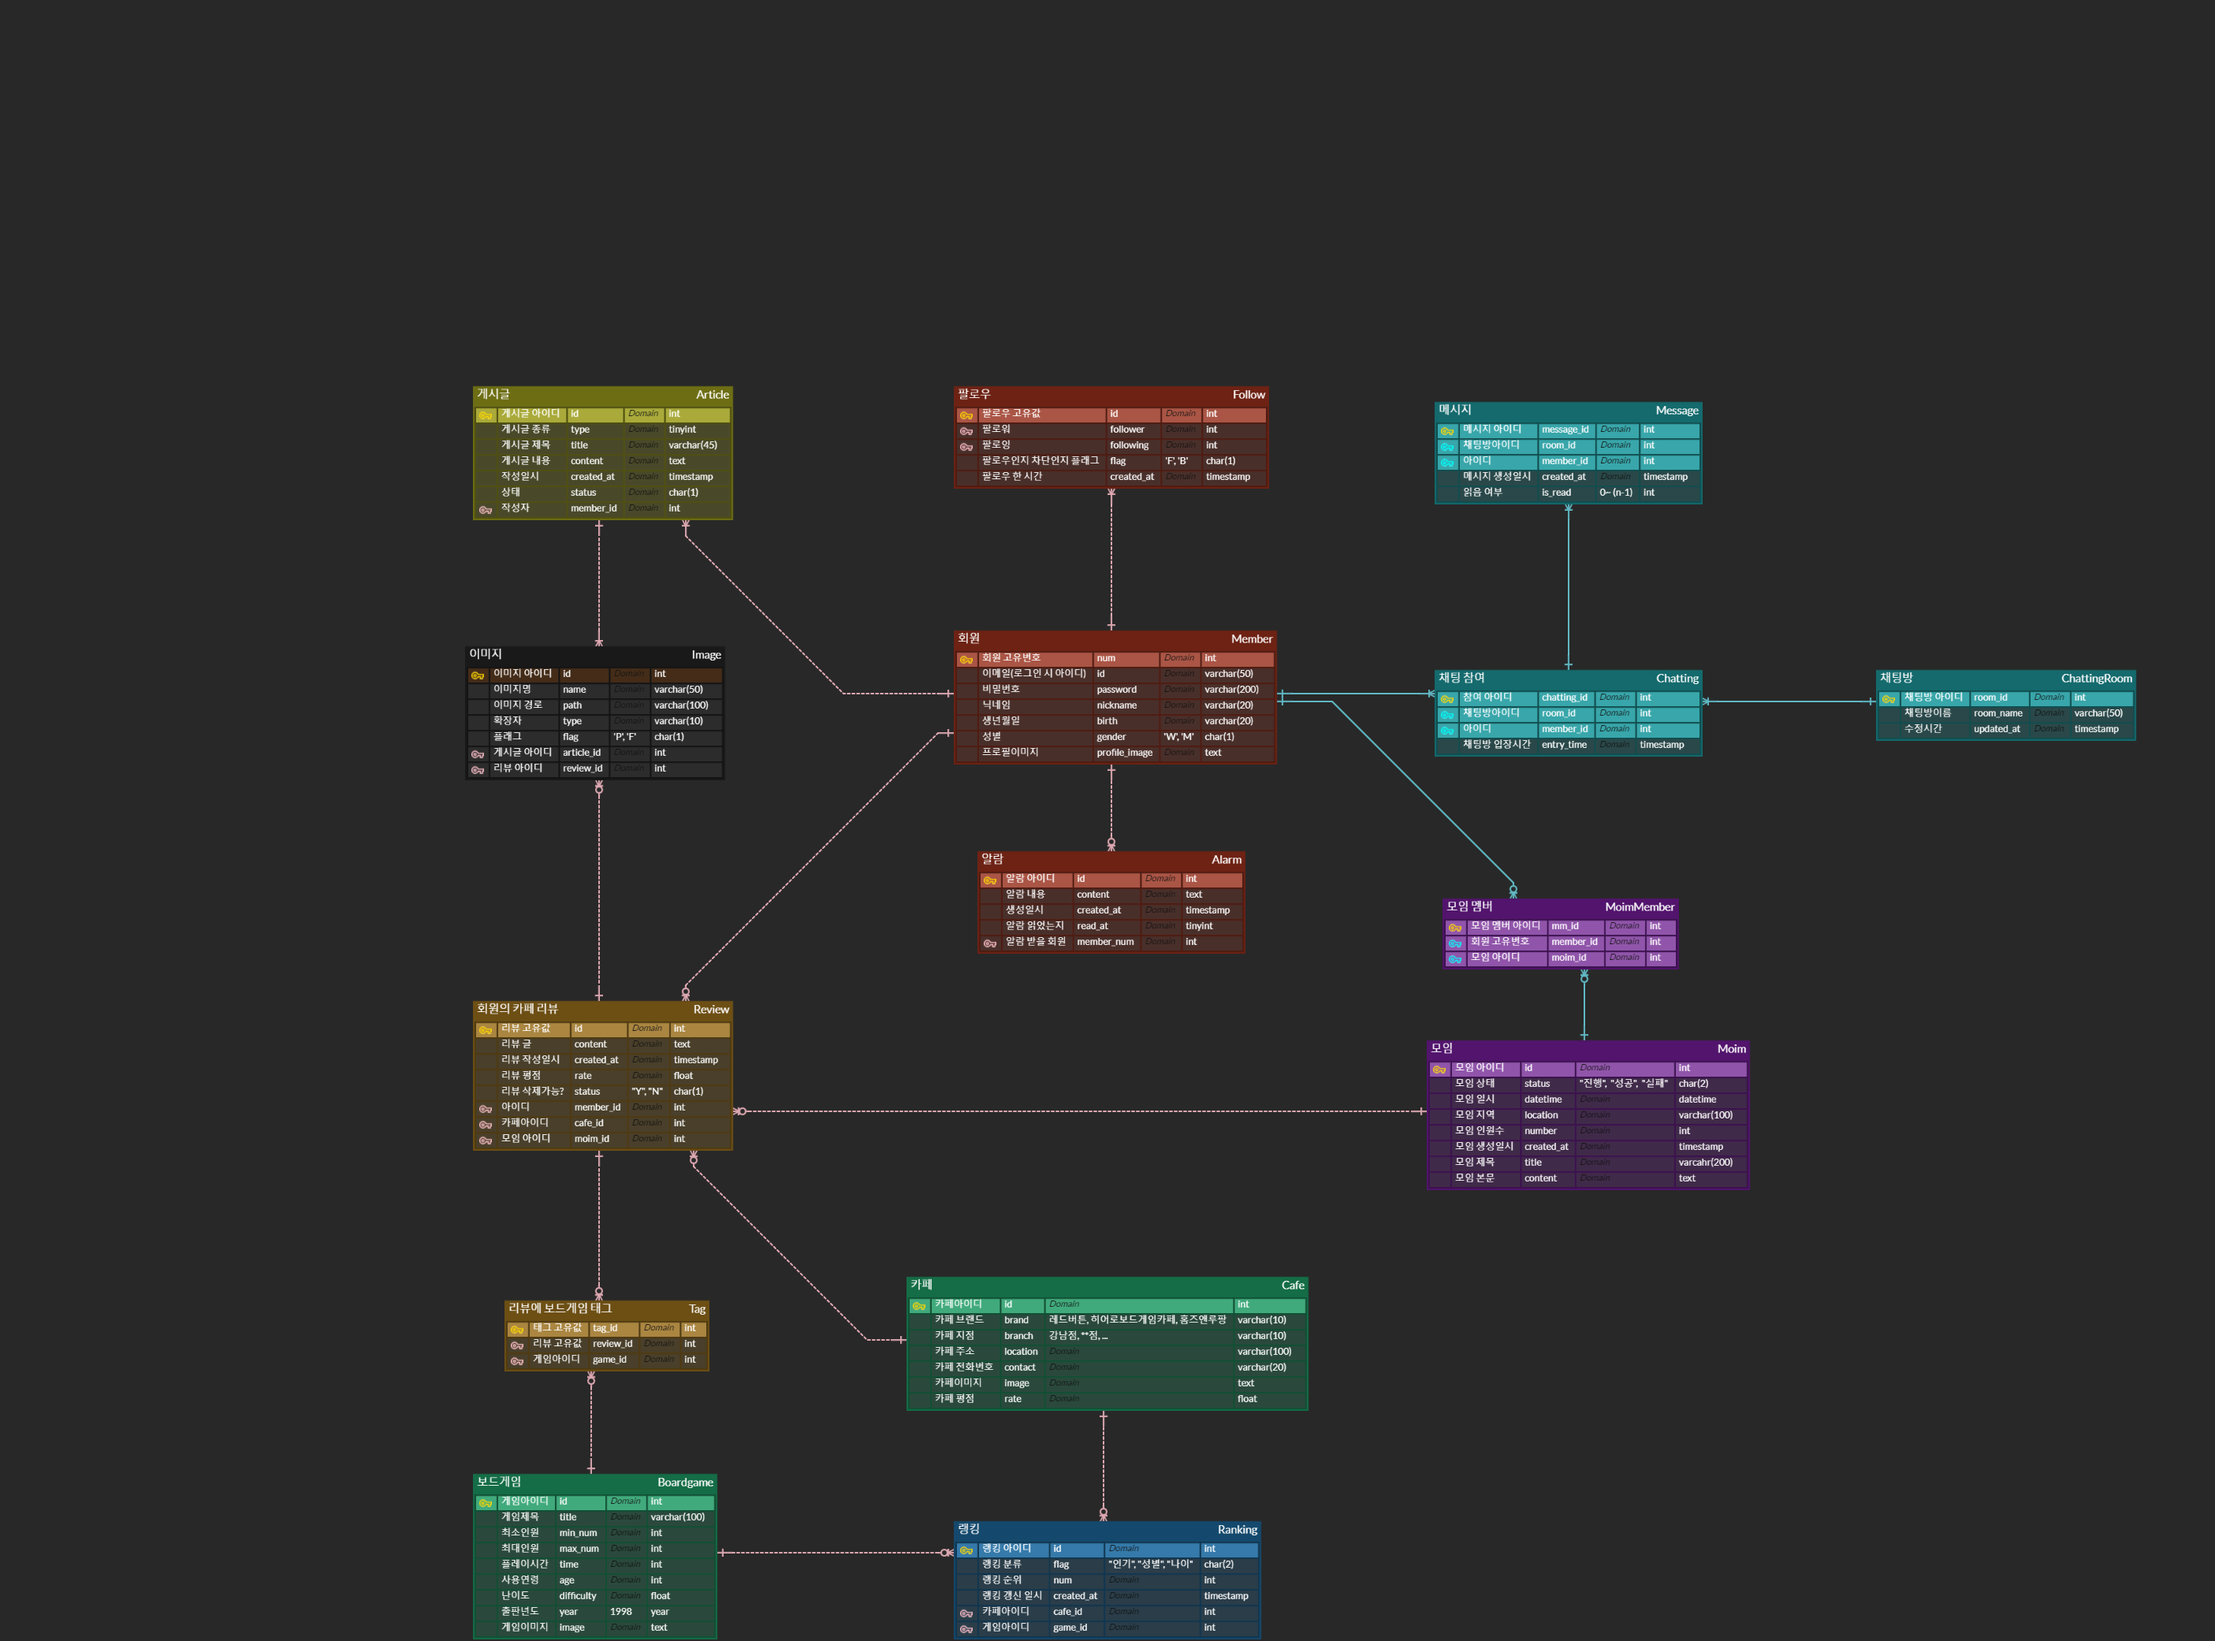
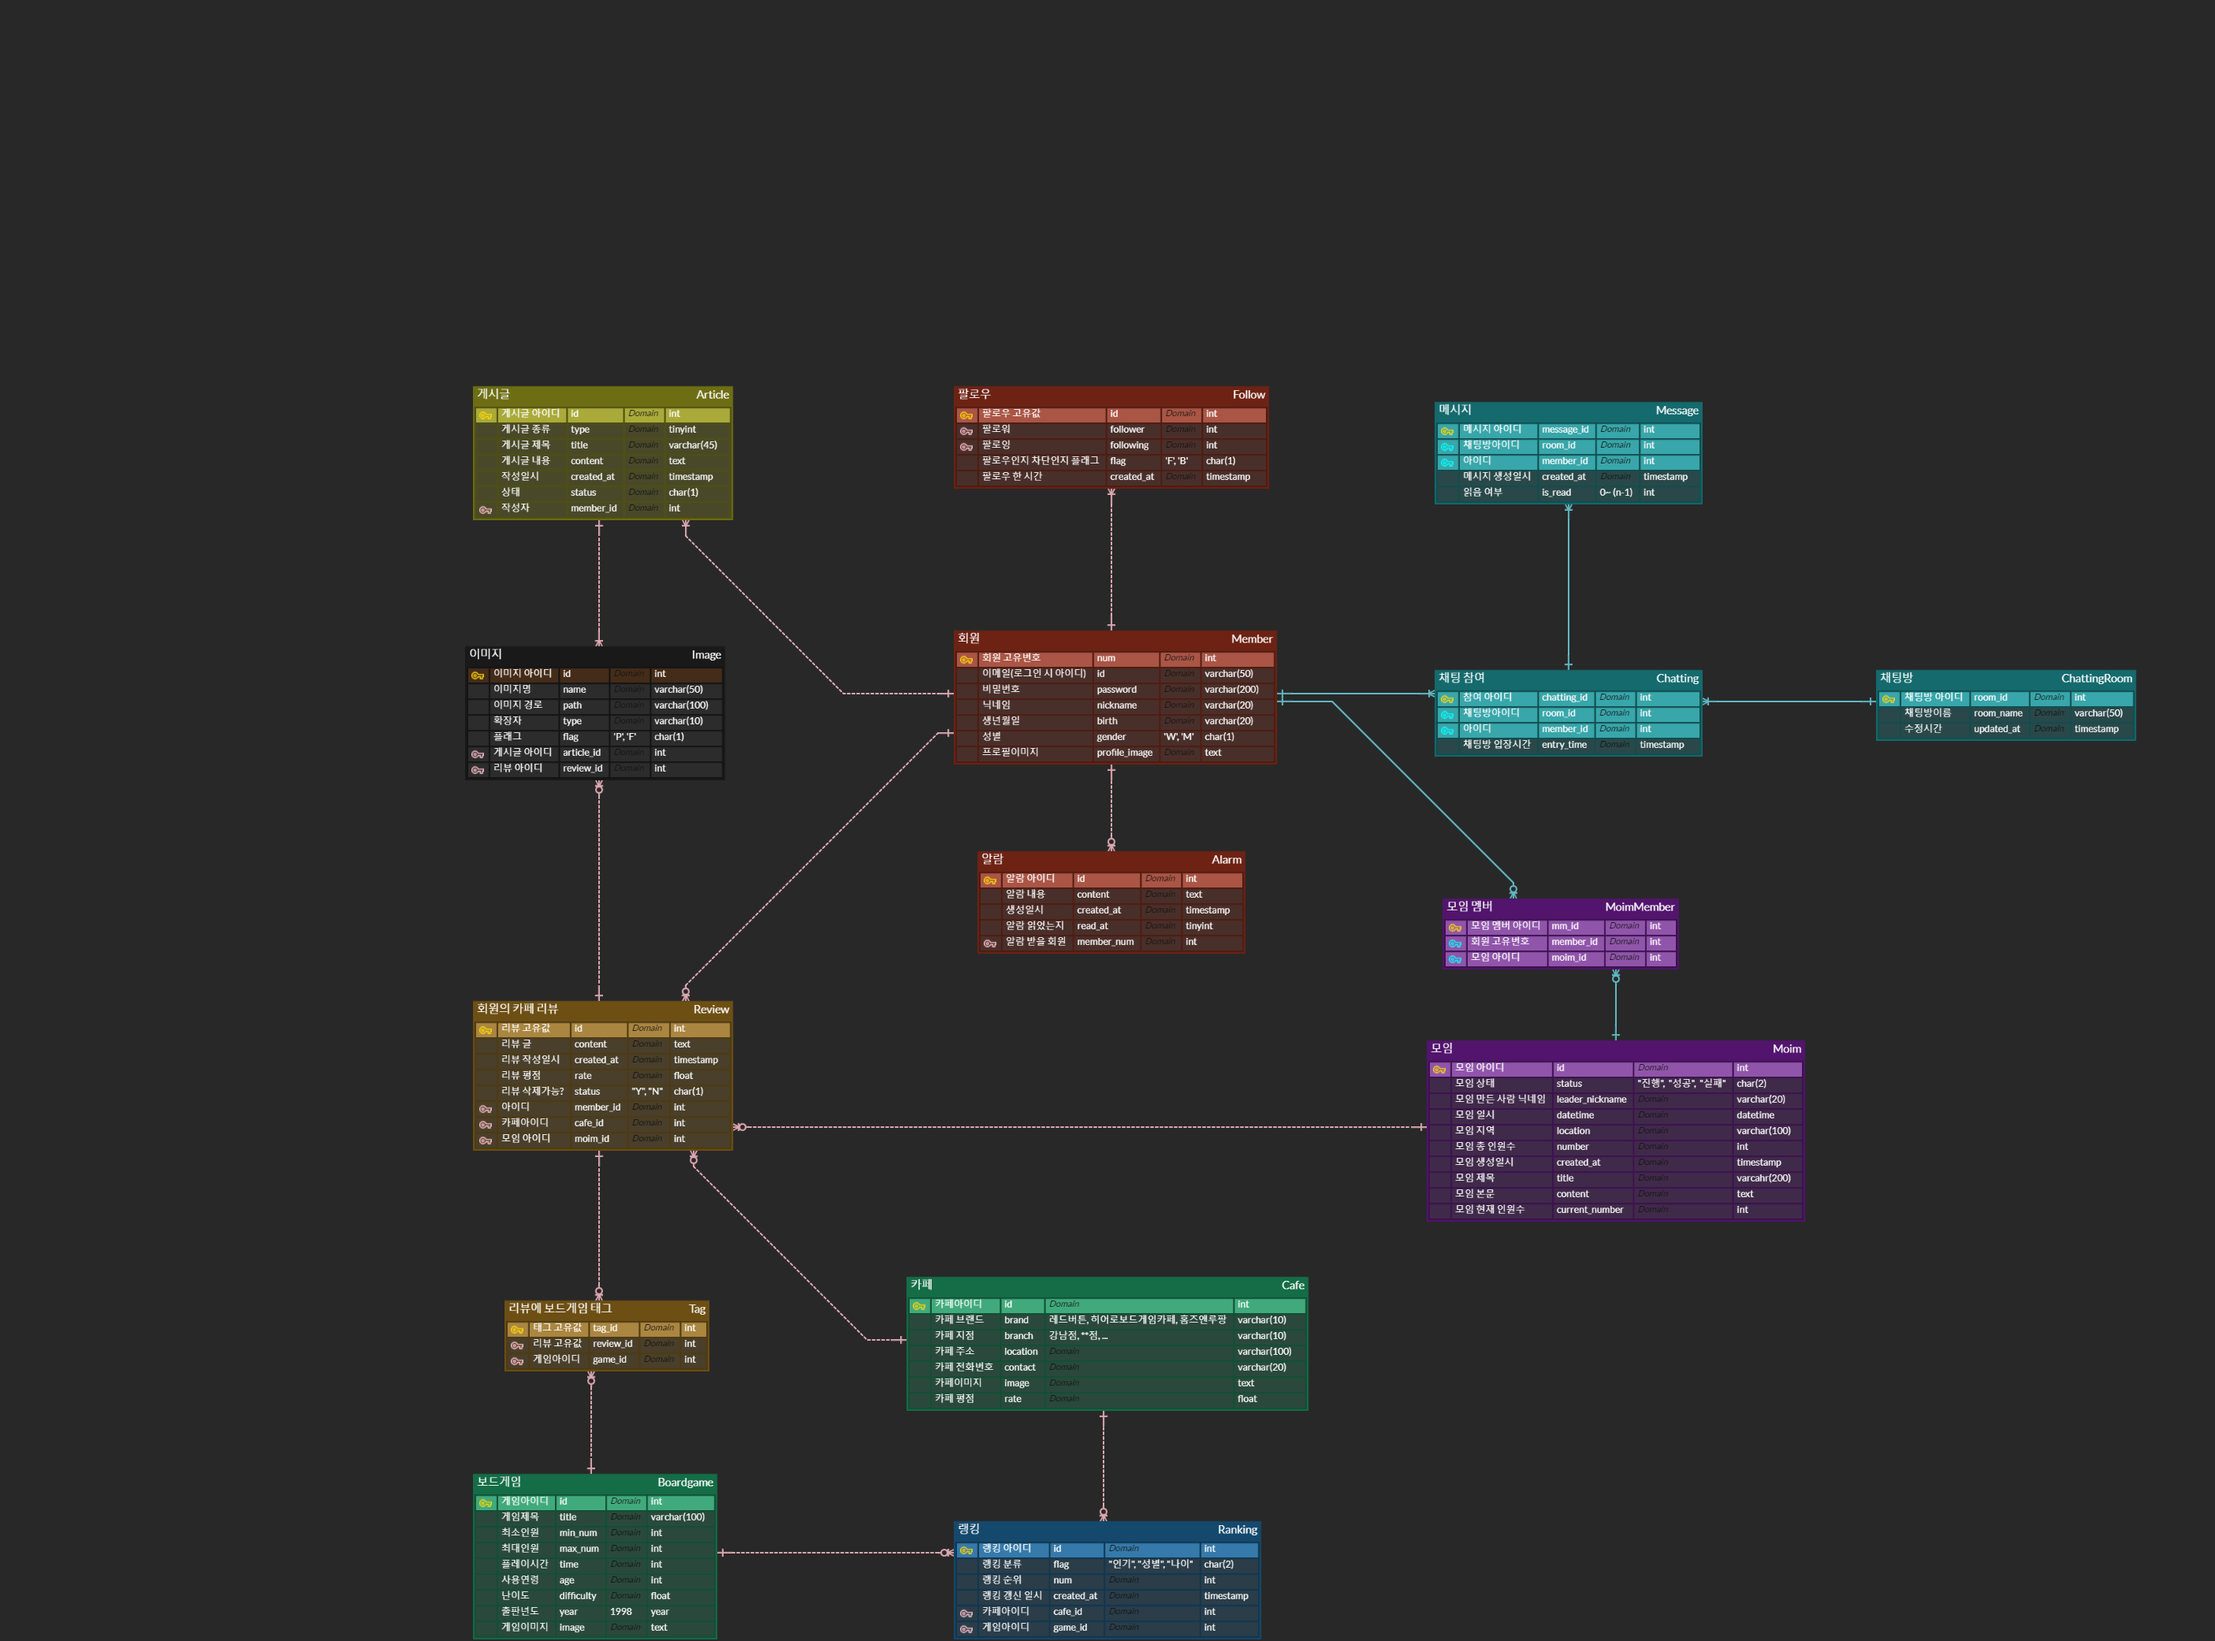
Feat: Moim 기능 구현 완료

Changed region(s): [[0.6192, 0.6244, 0.8359, 0.7493]]

diff --git a/BackEnd/gongtong/src/main/java/site/gongtong/moim/service/MoimServiceImpl.java b/BackEnd/gongtong/src/main/java/site/gongtong/moim/service/MoimServiceImpl.java
@@ -6,7 +6,6 @@ import org.springframework.stereotype.Service;
 import site.gongtong.member.model.Member;
 import site.gongtong.member.repository.MemberRepository;
 import site.gongtong.moim.model.Moim;
-import site.gongtong.moim.model.MoimDto;
 import site.gongtong.moim.model.MoimMember;
 import site.gongtong.moim.repository.MoimCustomRepository;
 import site.gongtong.moim.repository.MoimMemberCustomRepository;
@@ -86,11 +85,11 @@ public class MoimServiceImpl implements MoimService {
         } else if (existedMoimMember != null) {// 이미 모임에 참여한 사람인 지 확인
             return 4;
         } else if (count + 1 == moim.getNumber()) {
-            moim.setNumber(count + 1);
             moim.setStatus('S');
-            moimRepository.save(moim);
             // ToDo: 꽉 찼으니 모임 멤버 모두에게 알림 보내는 로직도 추가해야 함
         }
+        moim.setCurrentNumber(count + 1);
+        moimRepository.save(moim);
 
         MoimMember addMoimMember = MoimMember.builder()
                 .moim(moim)
@@ -119,24 +118,4 @@ public class MoimServiceImpl implements MoimService {
         return list;
     }
 
-    public List<MoimDto> convertToMoimDto(List<Moim> moimList){
-        List<MoimDto> dtoList = new ArrayList<>();
-
-        for(int i = 0; i < moimList.size(); i++){
-            Moim moim = moimList.get(i);
-            MoimDto dto = MoimDto.builder()
-                    .moimId(moim.getId())
-                    .leaderNickname(moim.getLeaderNickname())
-                    .title(moim.getTitle())
-                    .content(moim.getContent())
-                    .number(moim.getNumber())
-                    .location(moim.getLocation())
-                    .datetime(moim.getDatetime())
-                    //  TODO 이거 어떻게 해야할 지 생각
-                    //   .currentNumber()
-                    .build();
-            dtoList.add(dto);
-        }
-        return dtoList;
-    }
 }

diff --git a/BackEnd/gongtong/src/main/java/site/gongtong/moim/model/Moim.java b/BackEnd/gongtong/src/main/java/site/gongtong/moim/model/Moim.java
@@ -31,12 +31,14 @@ public class Moim {
 
     private String location;        // 모임 지역
 
-    private Integer number;         // 모임 인원수
+    private Integer number;         // 모임 총 인원수
 
     private String title;           // 모임 제목
 
     private String content;         // 모임 본문
 
+    @Column(name="current_number")
+    private Integer currentNumber;   // 모임 현재 인원수
 }
 
 

diff --git a/BackEnd/gongtong/src/main/java/site/gongtong/moim/controller/MoimController.java b/BackEnd/gongtong/src/main/java/site/gongtong/moim/controller/MoimController.java
@@ -62,6 +62,7 @@ public class MoimController {
                 .location(moimCondition.getLocation())
                 .datetime(moimCondition.getDatetime())
                 .status('P')
+                .currentNumber(1)
                 .build();
 
         int result = moimService.createRoom(moim, userNum);
